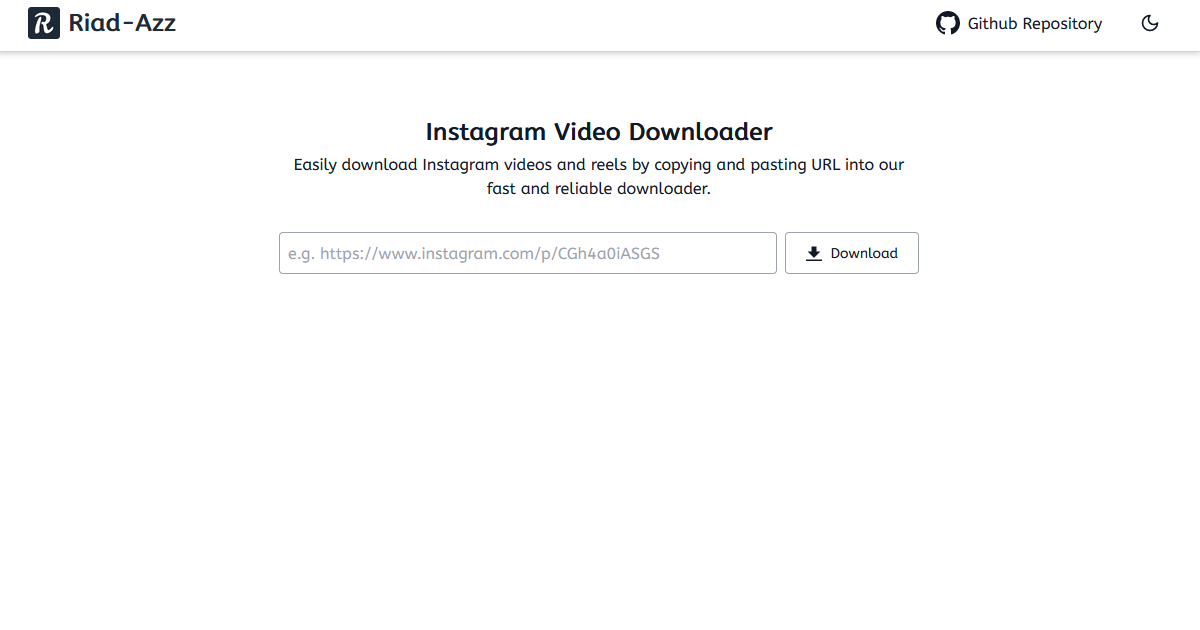
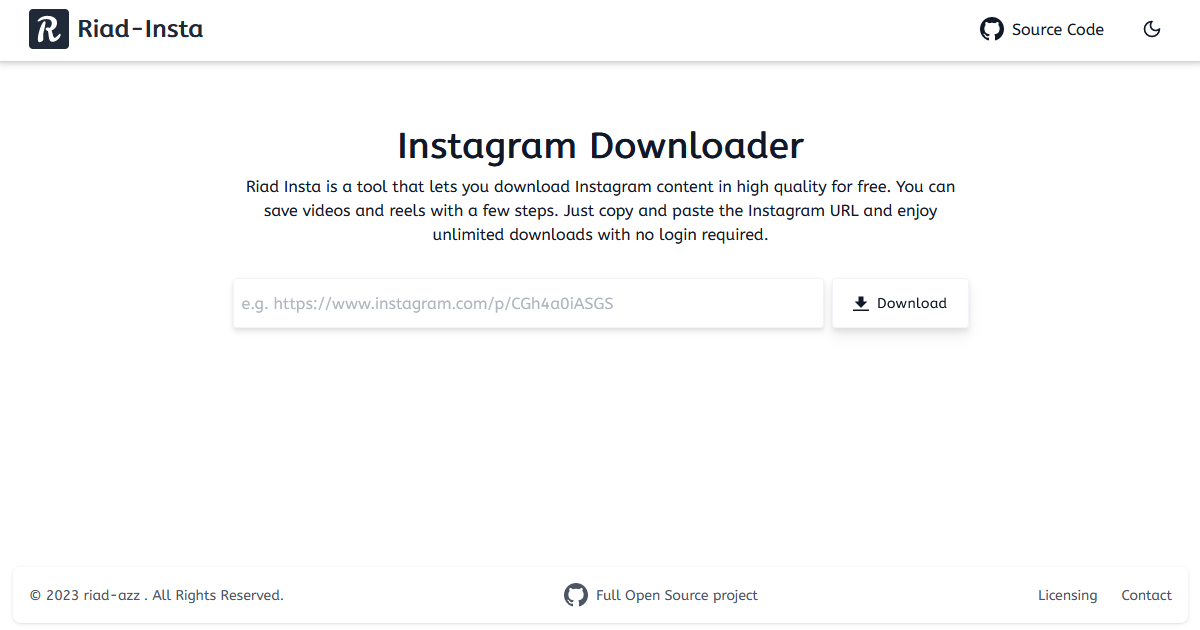
Update Moved Navbar and footer plus container from Page to Root Layout Added config/seo.ts file to store all page metadata Update Readme.md Updated .env.example and renamed API variable Updated og.png screenshot Updated homepage text for better SEO Update website description Renamed types/ files usi

diff --git a/src/app/layout.tsx b/src/app/layout.tsx
@@ -1,76 +1,19 @@
-import { ABeeZee as MainFont } from "next/font/google";
-import { siteConfig } from "@/config/site";
 import { cookies } from "next/headers";
-import ThemeInitializer from "@/components/ThemeInitializer";
+import { ABeeZee as MainFont } from "next/font/google";
+
 import "@/styles/globals.css";
+import { instagramMetadata } from "@/config/seo";
+
+import Navbar from "@/components/Navigation";
+import Footer from "@/components/Footer";
+import ThemeInitializer from "@/components/ThemeInitializer";
 
 const mainFont = MainFont({
   weight: "400",
   subsets: ["latin"],
 });
 
-export const metadata = {
-  title: "Download Instagram videos and reels for free",
-  description: siteConfig.description,
-  keywords: [
-    "Instagram downloader",
-    "Reels downloader",
-    "Instagram video downloader",
-    "Download Instagram videos",
-    "Save Instagram videos",
-    "Instagram reels downloader",
-    "Download Instagram reels",
-    "Save Instagram reels",
-    "Video downloader for Instagram",
-    "Instagram video saver",
-    "Instagram reel saver",
-    "Instagram reel video downloader",
-    "Reels video saver",
-    "Free Instagram saver",
-    "Instagram video download app",
-    "Free Instagram downloader",
-  ],
-  authors: [
-    {
-      name: "riad-azz",
-      url: "https://github.com/riad-azz",
-    },
-  ],
-  creator: "riad-azz",
-  themeColor: [
-    { media: "(prefers-color-scheme: light)", color: "white" },
-    { media: "(prefers-color-scheme: dark)", color: "#1f2937" },
-  ],
-  openGraph: {
-    type: "website",
-    locale: "en_US",
-    url: siteConfig.url,
-    title: siteConfig.name,
-    description: siteConfig.description,
-    siteName: siteConfig.name,
-    images: [
-      {
-        url: siteConfig.ogImageUrl,
-        width: 1200,
-        height: 630,
-        alt: siteConfig.name,
-      },
-    ],
-  },
-  twitter: {
-    card: "summary_large_image",
-    title: siteConfig.name,
-    description: siteConfig.description,
-    images: [siteConfig.ogImageUrl],
-    creator: "@riadazz",
-  },
-  icons: {
-    icon: "/favicon.ico",
-    shortcut: "/images/favicon-32x32.png",
-    apple: "/images/apple-touch-icon.png",
-  },
-  manifest: "/site.webmanifest",
-};
+export const metadata = instagramMetadata;
 
 export default function RootLayout({
   children,
@@ -87,7 +30,11 @@ export default function RootLayout({
         className={`overflow-x-hidden bg-white text-gray-900 dark:bg-gray-800 dark:text-slate-100 ${mainFont.className}`}
       >
         <ThemeInitializer theme={theme} />
-        {children}
+        <div className="flex min-h-screen flex-col justify-between">
+          <Navbar />
+          {children}
+          <Footer />
+        </div>
       </body>
     </html>
   );

diff --git a/src/config/seo.ts b/src/config/seo.ts
@@ -1,0 +1,64 @@
+import { siteConfig } from "@/config/site";
+
+export const instagramMetadata = {
+  title: "Download Instagram videos and reels for free",
+  description: siteConfig.description,
+  keywords: [
+    "Instagram downloader",
+    "Reels downloader",
+    "Instagram video downloader",
+    "Download Instagram videos",
+    "Save Instagram videos",
+    "Instagram reels downloader",
+    "Download Instagram reels",
+    "Save Instagram reels",
+    "Video downloader for Instagram",
+    "Instagram video saver",
+    "Instagram reel saver",
+    "Instagram reel video downloader",
+    "Reels video saver",
+    "Free Instagram saver",
+    "Instagram video download app",
+    "Free Instagram downloader",
+  ],
+  authors: [
+    {
+      name: "riad-azz",
+      url: "https://github.com/riad-azz",
+    },
+  ],
+  creator: "riad-azz",
+  themeColor: [
+    { media: "(prefers-color-scheme: light)", color: "white" },
+    { media: "(prefers-color-scheme: dark)", color: "#1f2937" },
+  ],
+  openGraph: {
+    type: "website",
+    locale: "en_US",
+    url: siteConfig.url,
+    title: siteConfig.name,
+    description: siteConfig.description,
+    siteName: siteConfig.name,
+    images: [
+      {
+        url: siteConfig.ogImageUrl,
+        width: 1200,
+        height: 630,
+        alt: siteConfig.name,
+      },
+    ],
+  },
+  twitter: {
+    card: "summary_large_image",
+    title: siteConfig.name,
+    description: siteConfig.description,
+    images: [siteConfig.ogImageUrl],
+    creator: "@riadazz",
+  },
+  icons: {
+    icon: "/favicon.ico",
+    shortcut: "/images/favicon-32x32.png",
+    apple: "/images/apple-touch-icon.png",
+  },
+  manifest: "/site.webmanifest",
+};

diff --git a/src/app/page.tsx b/src/app/page.tsx
@@ -1,25 +1,20 @@
 import InstagramForm from "@/components/InstagramForm";
-import Navbar from "@/components/Navigation";
-import Footer from "@/components/Footer";
 
-export default async function HomePage() {
+export default function HomePage() {
   return (
-    <>
-      <div className="flex min-h-screen flex-col justify-between">
-        <Navbar />
-        <main className="container mx-auto w-full flex-1 rounded p-4 md:max-w-3xl">
-          <header className="mb-8 motion-safe:animate-[animate-drop_1.5s_ease-in-out_1]">
-            <h1 className="mb-2 text-center text-2xl font-bold sm:text-4xl">
-              Instagram Downloader
-            </h1>
-            <p className="mb-4 text-center text-sm md:text-base">
-              Download Instagram Videos, Reels in high quality for free.
-            </p>
-          </header>
-          <InstagramForm />
-        </main>
-        <Footer />
-      </div>
-    </>
+    <main className="container mx-auto w-full flex-1 rounded p-4 md:max-w-3xl">
+      <header className="mb-8 motion-safe:animate-[animate-drop_1.5s_ease-in-out_1]">
+        <h1 className="mb-2 text-center text-2xl font-bold sm:text-4xl">
+          Instagram Downloader
+        </h1>
+        <p className="mb-4 text-center text-sm md:text-base">
+          Riad Insta is a tool that lets you download Instagram content in high
+          quality for free. You can save videos and reels with a few steps. Just
+          copy and paste the Instagram URL and enjoy unlimited downloads with no
+          login required.
+        </p>
+      </header>
+      <InstagramForm />
+    </main>
   );
 }

diff --git a/src/components/Footer.tsx b/src/components/Footer.tsx
@@ -2,9 +2,9 @@ import { Icons } from "@/components/Icons";
 
 const Footer = () => {
   return (
-    <footer className="m-4 rounded-lg bg-white shadow dark:bg-gray-800">
+    <footer className="m-4 rounded-lg bg-white shadow dark:bg-gray-800 dark:shadow-lg">
       <div className="mx-auto w-full max-w-screen-xl p-4 md:flex md:items-center md:justify-between">
-        <span className="text-sm text-gray-500 dark:text-gray-400 sm:text-center">
+        <span className="text-sm text-gray-600 dark:text-gray-400 sm:text-center">
           © 2023
           <a
             target="_blank"
@@ -15,11 +15,11 @@ const Footer = () => {
           </a>
           . All Rights Reserved.
         </span>
-        <div className="mt-3 flex items-center gap-2 text-sm text-gray-500 dark:text-gray-400 sm:text-center md:mt-0">
+        <div className="mt-3 flex items-center gap-2 text-sm text-gray-600 dark:text-gray-400 sm:text-center md:mt-0">
           <Icons.github />
           <span>Full Open Source project</span>
         </div>
-        <ul className="mt-3 flex flex-wrap items-center text-sm font-medium text-gray-500 dark:text-gray-400 md:mt-0">
+        <ul className="mt-3 flex flex-wrap items-center text-sm font-medium text-gray-600 dark:text-gray-400 md:mt-0">
           <li>
             <a
               target="_blank"

diff --git a/src/utils/instagramScraper.ts b/src/utils/instagramScraper.ts
@@ -2,10 +2,10 @@ import axios from "axios";
 import { load } from "cheerio";
 
 import { VideoJson } from "@/types";
-import { PostJson, PostJsonVideo } from "@/types/instagram-post";
+import { ScrapedPost, PostJsonVideo } from "@/types/instagramScraper";
 import { BadRequest } from "@/exceptions/instagramExceptions";
 
-const formatPageJson = (json: PostJson) => {
+const formatPageJson = (json: ScrapedPost) => {
   const videoList = json.video;
 
   if (videoList.length === 0) {
@@ -34,7 +34,7 @@ export const fetchFromPage = async (postUrl: string) => {
     if (error.message.includes("404")) {
       throw new BadRequest("This post page isn't available.", 404);
     }
-    console.log(error.message);
+    console.error(error.message);
     return null;
   }
 
@@ -51,11 +51,11 @@ export const fetchFromPage = async (postUrl: string) => {
 
   try {
     const jsonText: string = jsonElement.text();
-    const json: PostJson = JSON.parse(jsonText);
+    const json: ScrapedPost = JSON.parse(jsonText);
     const formattedJson = formatPageJson(json);
     return formattedJson;
   } catch (e) {
-    console.log(e);
+    console.error(e);
     return null;
   }
 };

diff --git a/src/utils/index.ts b/src/utils/index.ts
@@ -1,6 +1,6 @@
 import { VideoJson, DownloadJson } from "@/types";
-import { fetchFromPage } from "@/utils/page-scraper";
-import { useGraphqlAPI, fetchFromAPI } from "@/utils/instagram-api";
+import { fetchFromPage } from "@/utils/instagramScraper";
+import { useInstagramAPI, fetchFromAPI } from "@/utils/instagramAPI";
 import { BadRequest, ServerError } from "@/exceptions/instagramExceptions";
 
 export const formatDownloadJson = (postId: string, json: VideoJson) => {
@@ -47,10 +47,13 @@ export const getPostId = (postUrl: string | null) => {
 export const fetchPostJson = async (postID: string) => {
   const postUrl = "https://www.instagram.com/p/" + postID;
   const pageJson = await fetchFromPage(postUrl);
+
   if (pageJson) return pageJson;
-  if (useGraphqlAPI) {
+
+  if (useInstagramAPI) {
     const apiJson = await fetchFromAPI(postUrl);
     if (apiJson) return apiJson;
   }
+
   throw new ServerError("Could not find download link for this post", 500);
 };

diff --git a/src/utils/instagramAPI.ts b/src/utils/instagramAPI.ts
@@ -1,10 +1,10 @@
 import axios from "axios";
 
 import { VideoJson } from "@/types";
-import { GraphqlPostJson, GraphqlResponse } from "@/types/instagram-graphql";
+import { GraphqlResponse, GraphqlPostJson } from "@/types/instagramAPI";
 import { BadRequest } from "@/exceptions/instagramExceptions";
 
-export const useGraphqlAPI = process.env.USE_GRAPHQL_API === "true";
+export const useInstagramAPI = process.env.USE_INSTAGRAM_API === "true";
 
 const formatGraphqlJson = (json: GraphqlPostJson) => {
   if (!json.video_versions) {
@@ -50,7 +50,7 @@ export const fetchFromAPI = async (postUrl: string) => {
     if (error.message.includes("404")) {
       throw new BadRequest("This post page isn't available.", 404);
     }
-    console.log(error.message);
+    console.error(error.message);
     return null;
   }
 

diff --git a/src/config/site.ts b/src/config/site.ts
@@ -3,7 +3,7 @@ import { SiteConfig } from "@/types";
 export const siteConfig: SiteConfig = {
   name: "Riad Insta",
   description:
-    "Download Instagram videos and reels for free with our easy-to-use Instagram downloader tool. Save Instagram videos and reels in high quality with our fast, reliable downloader.",
+    "Riad Insta is a tool that lets you download Instagram content in high quality for free. You can save videos and reels with a few steps with no login required.",
   url: "https://riad-insta.vercel.app/",
   ogImageUrl: "https://riad-insta.vercel.app/og.png",
   links: {

diff --git a/src/components/InstagramForm.tsx b/src/components/InstagramForm.tsx
@@ -51,7 +51,7 @@ const InstagramForm = () => {
     }
 
     try {
-      const response = await fetch(`/api/post?url=${postUrl}`, {
+      const response = await fetch(`/api/instagram?url=${postUrl}`, {
         method: "POST",
       });
 

diff --git a/src/app/api/route.ts b/src/app/api/route.ts
@@ -1,5 +1,5 @@
 import { NextResponse } from "next/server";
 
 export async function GET(request: Request) {
-  return new NextResponse("RIAD-AZZ Instagram Video API V1.0.0");
+  return new NextResponse("RIAD-AZZ Instagram API V1.0.0");
 }

diff --git a/src/types/instagramScraper.d.ts b/src/types/instagramScraper.d.ts
@@ -1,4 +1,4 @@
-export interface PostJson {
+export interface ScrapedPost {
   articleBody: string;
   author: Author;
   comment: Comment;
